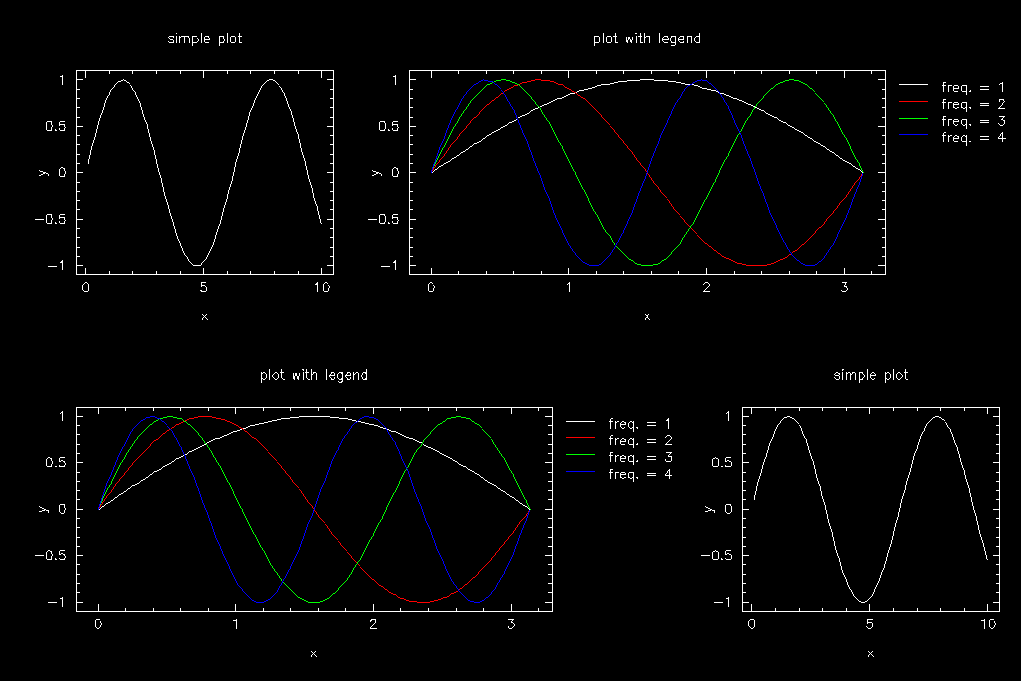
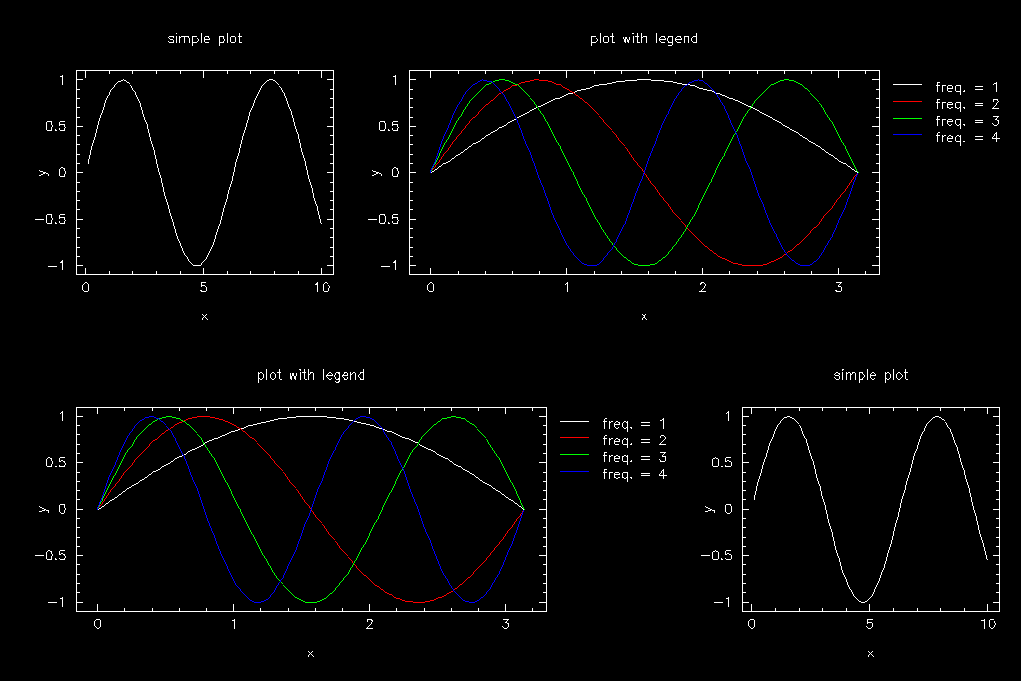
html documentation
inlists point to test directory to avoid clashes with images in doc

diff --git a/doc/about_grid.html b/doc/about_grid.html
@@ -1,0 +1,115 @@
+<h1 id="grid-plots-with-pgplot">Grid plots with PGPLOT</h1>
+<h2 id="layout">Layout</h2>
+<p>Let's start with a simple grid. We'll make it 3 columns by 2 rows. The file width we'll set to 12 (which is about 1152 pixels on my MacBook Pro), and we'll set the aspect ratio (height/width) to 2/3, so that the cells of our grid will be square.</p>
+<pre><code>file_width = 12.0
+file_aspect_ratio = 0.6666667
+
+grid_num_cols = 3
+grid_num_rows = 2
+grid_num_plots = 6</code></pre>
+<p>We want some padding between the rows; let's set that to 20 px.</p>
+<pre><code>grid_col_offset_in_px = 20.0
+grid_row_offset_in_px = 20.0</code></pre>
+<p>Finally, let's put a border around our grid and set it to be 0.02 of the total window extent.</p>
+<pre><code>grid_pad_left = 0.02
+grid_pad_right = 0.02
+grid_pad_top = 0.02
+grid_pad_bottom = 0.02</code></pre>
+<p>Now we'll box each grid, using our 'Box' plot</p>
+<pre><code>grid_plot_names(1) = &#39;Box&#39;
+grid_plot_col(1) = 1
+grid_plot_row(1) = 1
+grid_plot_colspan(1) = 1
+grid_plot_rowspan(1) = 1</code></pre>
+<p>and so forth for the other plots. Here is how it looks. <img src="grid0.png" title="3-by-2 grid" alt="grid layout" /></p>
+<p>Let's reduce the number of plots: we'll make the upper right and lower left plots span 2 columns:</p>
+<pre><code>grid_num_plots = 4
+grid_plot_names(1) = &#39;Box&#39;
+grid_plot_col(1) = 1
+grid_plot_row(1) = 1
+grid_plot_colspan(1) = 1
+grid_plot_rowspan(1) = 1
+
+grid_plot_names(2) = &#39;Box&#39;
+grid_plot_col(2) = 2
+grid_plot_row(2) = 1
+grid_plot_colspan(2) = 2
+grid_plot_rowspan(2) = 1
+
+grid_plot_names(3) = &#39;Box&#39;
+grid_plot_col(3) = 1
+grid_plot_row(3) = 2
+grid_plot_colspan(3) = 2
+grid_plot_rowspan(3) = 1
+
+grid_plot_names(4) = &#39;Box&#39;
+grid_plot_col(4) = 3
+grid_plot_row(4) = 2
+grid_plot_colspan(4) = 1
+grid_plot_rowspan(4) = 1</code></pre>
+<p>Here are the results: <img src="grid1.png" title="with plots spanning muliple columns" /></p>
+<p>Of course, we need to allow space for the axes and plot titles. We specify their lengths in units of the character size. Let's specify a target character size of 1 em = 14 px, and make the left, top, and bottom margins 4 em = 56 px:</p>
+<pre><code>simplt_pad_left_in_em = 4.0
+simplt_pad_right_in_em = 0.0
+simplt_pad_top_in_em = 4.0
+simplt_pad_bottom_in_em = 4.0
+simplt_char_size_in_px = 14.0</code></pre>
+<p>(I am using the <code>simplt</code> flags for the boxes as well)</p>
+<figure>
+<img src="grid2.png" title="with 4.0 em padding on left, bottom, and top" />
+</figure>
+<p>Note that this spacing is fixed even as we reduce the plot size:</p>
+<pre><code>file_width = 9.0</code></pre>
+<figure>
+<img src="grid3.png" title="scaled by 0.75" />
+</figure>
+<p>Let's go back to our original size and make the upper right and lower left plots have room for a legend that takes up 0.18 of the plot width:</p>
+<pre><code>grid_plot_names(2) = &#39;Box_with_Legend&#39;
+grid_plot_names(3) = &#39;Box_with_Legend&#39;
+lgdplt_legend_width = 0.18
+lgdplt_legend_left_margin_in_em = 1.0</code></pre>
+<p>We also specifed a gap of 1.0 em between the right edge of the plot and the legend.</p>
+<figure>
+<img src="grid4.png" title="added legend" />
+</figure>
+<h2 id="adding-plots">Adding plots</h2>
+<p>Now we are ready to add real plots. We have two: 'Simple_Plot', which just draws a sine wave, and 'Legend_Plot', which draws a sine wave and a few harmonics and makes a legend.</p>
+<pre><code>grid_plot_names(1) = &#39;Legend_Plot&#39;
+grid_plot_names(2) = &#39;Simple_Plot&#39;
+grid_plot_names(3) = &#39;Legend_Plot&#39;
+grid_plot_names(4) = &#39;Simple_Plot&#39;</code></pre>
+<p>We put a maring of 0.5 em at the top, and set the distance between baselines in the legend to be 1.2 em; we specify the length of the lines in the legend to be 2.0em:</p>
+<pre><code>lgdplt_legend_top_margin_in_em = 0.5
+lgdplt_legend_lineskip_in_em = 1.2
+lgdplt_legend_line_length_in_em = 2.0 </code></pre>
+<p>This gives the following plot.</p>
+<figure>
+<img src="plt0.png" title="plot with legend" />
+</figure>
+<p>Notice that the text retains its size as we scale up</p>
+<pre><code>file_width = 15.0</code></pre>
+<figure>
+<img src="plt1.png" title="scaled up" />
+</figure>
+<p>and down</p>
+<pre><code>file_width = 9.0</code></pre>
+<figure>
+<img src="plt2.png" title="scaled down" />
+</figure>
+<p>Of course, our legend is now too big. Let's reduce that to 70% of the current text size</p>
+<pre><code>lgdplt_legend_txt_scale = 0.7</code></pre>
+<p>This also reduces the line lengths, since they are in units of text size.</p>
+<figure>
+<img src="plt3.png" title="legend reduced by 0.7" />
+</figure>
+<p>Let's push the legend down and increase the spacing between lines</p>
+<pre><code>lgdplt_legend_top_margin_in_em = 2.5
+lgdplt_legend_lineskip_in_em = 2.0</code></pre>
+<figure>
+<img src="plt4.png" title="moved legend" />
+</figure>
+<p>Finally, let's set the target character size on the simple plots (upper left and lower right) to be 10px:</p>
+<pre><code>simplt_char_size_in_px = 10.0</code></pre>
+<figure>
+<img src="plt5.png" title="with text size change on the simple plot" />
+</figure>

diff --git a/doc/about_grid.md b/doc/about_grid.md
@@ -62,7 +62,7 @@ Let's reduce the number of plots: we'll make the upper right and lower left plot
     grid_plot_rowspan(4) = 1
 
 Here are the results:
-![grid with multiple columns](grid1.png "with plots spanning muliple columns")
+![](grid1.png "with plots spanning muliple columns")
 
 Of course, we need to allow space for the axes and plot titles.  We specify their lengths in units of the character size. Let's specify a target character size of 1 em = 14 px, and make the left, top, and bottom margins 4 em = 56 px:
 
@@ -74,13 +74,13 @@ Of course, we need to allow space for the axes and plot titles.  We specify thei
 
 (I am using the `simplt` flags for the boxes as well)
 
-![grid with padding for plot titles](grid2.png "with 4.0 em padding on left, bottom, and top")
+![](grid2.png "with 4.0 em padding on left, bottom, and top")
 
 Note that this spacing is fixed even as we reduce the plot size:
 
     file_width = 9.0
 
-![as above, but reduced in scale](grid3.png "scaled by 0.75")
+![](grid3.png "scaled by 0.75")
 
 Let's go back to our original size and make the upper right and lower left plots have room for a legend that takes up 0.18 of the plot width:
 
@@ -90,6 +90,8 @@ Let's go back to our original size and make the upper right and lower left plots
     lgdplt_legend_left_margin_in_em = 1.0
 
 We also specifed a gap of 1.0 em between the right edge of the plot and the legend.
+
+![](grid4.png "added legend")
 
 ## Adding plots
 
@@ -106,21 +108,21 @@ We put a maring of 0.5 em at the top, and set the distance between baselines in 
     lgdplt_legend_lineskip_in_em = 1.2
     lgdplt_legend_line_length_in_em = 2.0 
 
-This gives the following plot; note that we have a bit of overhang on the upper right legend.
+This gives the following plot.
 
-![plot with legend](plt0.png "plot with legend")
+![](plt0.png "plot with legend")
 
 Notice that the text retains its size as we scale up
 
     file_width = 15.0
     
-![scaled up](plt1.png "scaled up")
+![](plt1.png "scaled up")
 
 and down
 
     file_width = 9.0
     
-![scaled down](plt2.png "scaled down")
+![](plt2.png "scaled down")
 
 Of course, our legend is now too big. Let's reduce that to 70% of the current text size
 
@@ -128,7 +130,7 @@ Of course, our legend is now too big. Let's reduce that to 70% of the current te
 
 This also reduces the line lengths, since they are in units of text size.
 
-![reduced scale legend](plt3.png "legend reduced by 0.7")
+![](plt3.png "legend reduced by 0.7")
 
 
 Let's push the legend down and increase the spacing between lines
@@ -136,9 +138,11 @@ Let's push the legend down and increase the spacing between lines
     lgdplt_legend_top_margin_in_em = 2.5
     lgdplt_legend_lineskip_in_em = 2.0
 
+![](plt4.png "moved legend")
+
 Finally, let's set the target character size on the simple plots (upper left and lower right) to be 10px:
 
     simplt_char_size_in_px = 10.0
 
-![text size change](plt5.png "with text size change on the simple plot")
+![](plt5.png "with text size change on the simple plot")
 
